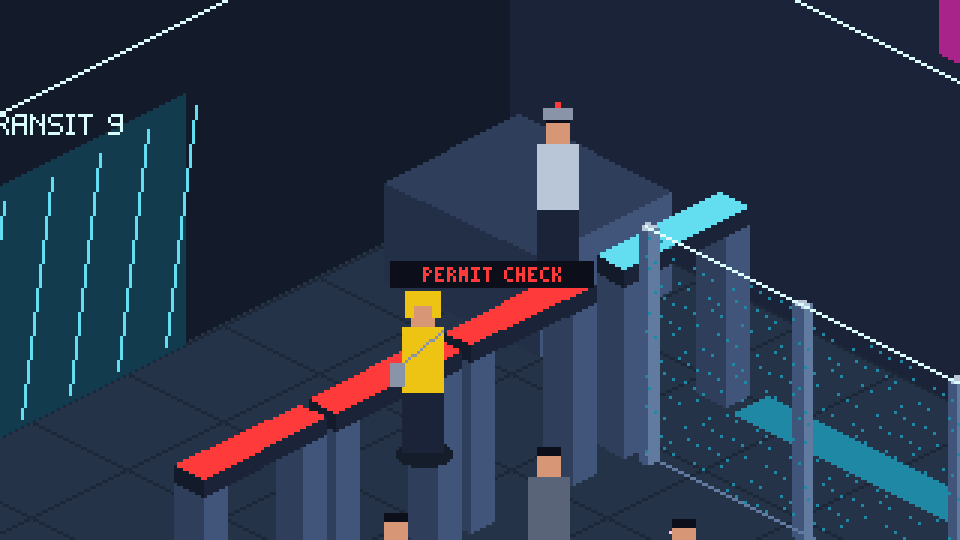
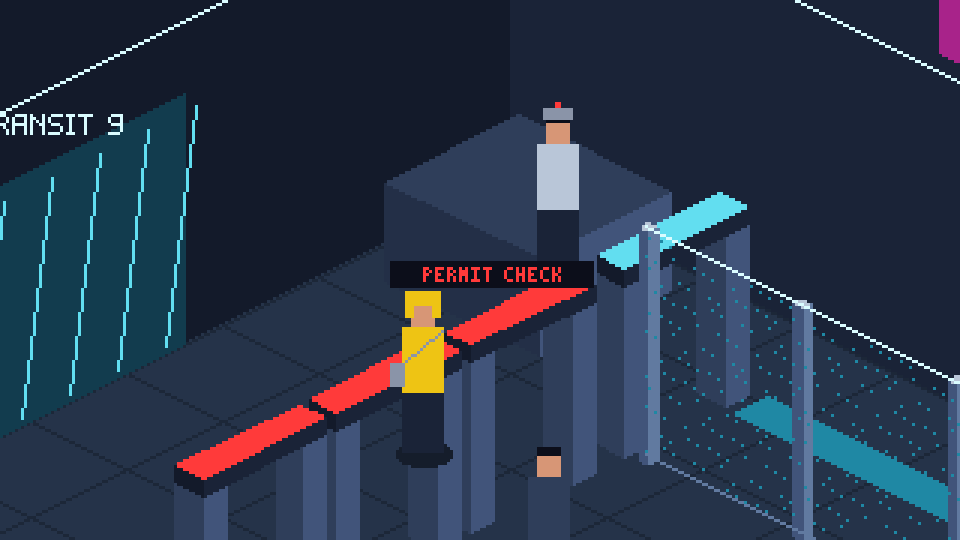
transit_neun's waiting hall is no longer full, as the user wished, and who waits there and how many changes with the day and the hour: in the draft (§9.2) as routines by the clock, looks only and no state (a proposal: the most after the day shift until 20:00, pump workers with their papers, a mother

Changed region(s): [[0.5312, 0.8593, 0.5938, 1.0], [0.6875, 0.9481, 0.75, 1.0], [0.375, 0.9481, 0.4375, 1.0]]

diff --git a/art/mockups/transit_neun_blocks.px.js b/art/mockups/transit_neun_blocks.px.js
@@ -354,14 +354,14 @@ scene("transit_neun_lang", { w: LW, h: LH, bg: "k" },
     }
     for (let u = 17.4; u <= 23.4; u += 1.2) lbox(c, u - 0.05, 5.0, 0, 0.1, 0.1, 1.0, "H", "5", "6")
     for (let u = 17.4; u < 23.4; u += 1.2) c.line(...L(u, 5.0, 0.95), ...L(u + 1.2, 5.0, 0.95), "r")
-    // the waiting hall: rows of benches, full; some asleep on Lull; people standing between
+    // the waiting hall: rows of benches, a few waiting (who and how many changes by the day and the hour); some asleep on Lull
     const COATS = ["4", "3", "5", "g", "4", "3"]
     let n = 0
     for (const v of [3.4, 4.9, 6.3]) for (let u = 5; u < 16; u += 2.6) {
       lbox(c, u, v, 0, 2.2, 0.5, 0.45, "5", "3", "4")
-      for (let s = 0; s < 3; s++) { n++; if (n % 5 === 3) continue; lman(c, u + 0.4 + s * 0.7, v + 0.25, COATS[n % 6], { sit: true, sleep: n % 4 === 1 }) }
+      for (let s = 0; s < 3; s++) { n++; if (!(n % 4 === 0 || n % 7 === 2)) continue; lman(c, u + 0.4 + s * 0.7, v + 0.25, COATS[n % 6], { sit: true, sleep: n % 4 === 1 }) }
     }
-    for (const [u, v] of [[16.6, 3.6], [17.2, 4.4], [18.4, 4.5], [19.6, 4.4], [16.0, 5.6], [4.6, 4.2], [4.5, 5.7]]) { n++; lman(c, u, v, COATS[n % 6], { case: n % 3 === 0 }) }
+    for (const [u, v] of [[17.2, 4.4], [18.4, 4.5], [4.6, 4.2]]) { n++; lman(c, u, v, COATS[n % 6], { case: n % 3 === 0 }) }
     // Juno at the first check: a red gate for her
     lman(c, 2.4, 3.3, "y", { hood: "y", bag: "G" })
     TXT.draw(c, 6, 6, "A: ISO, DIE LANGE HALLE (24 X 7 M, WAENDE 7 M)", "6", { font: "hud" })

diff --git a/docs/kapitel3-design.md b/docs/kapitel3-design.md
@@ -124,6 +124,11 @@ Am Fuß des Turms, wo die Aufzüge der Transitachse in den Schacht steigen, der 
 kommt nur, wer eine Arbeitserlaubnis hat, und höchstens bis in den Fünften (story §3). Nötig ist dieser Gang nicht, aber er erzählt die
 Grenze, und hier beginnt der Faden um Morrows Tochter (§6.1).
 
+**Der Weg durch die Halle** (Vorschlag nach der Wahl des Nutzers, §9.2): Juno kommt durch die Glastüren, und an der Vorkontrolle leuchtet
+ihr Tor rot (`PERMIT CHECK`). Damit ist sie im Wartesaal, nicht auf der Spur hinter dem Glas. Sie kann ihn durchqueren, mit den Wartenden
+reden (nur Farbe, kein Flag) und zu den Antragsschaltern an seinem Ende gehen; dort ist die Wache, und dort wird sie abgewiesen. Durch die
+Glaswand sieht sie die wenigen mit Erlaubnis zu den Bögen gehen, am Dienstag um 20:00 auch Morrow (§6.1).
+
 > Wache: „Ausweis, bitte.“ – Juno legt ihren alten auf. Das Lesegerät: `CIVIC MONITOR · J. REYES · UNGÜLTIG`. – Wache: „Dieser Ausweis
 > ist ungültig. Haben Sie eine Arbeitserlaubnis?“
 > - „Ich will meinen Bruder besuchen. Teo Reyes, Station 5-Mitte.“ – Wache: „Besuche auf den Stationen sind nicht vorgesehen.“ – „Die
@@ -330,7 +335,7 @@ holt sie sich nachts um halb eins in der Jade Row vom Tidewater-Jungen einen Ums
 
 | # | Wo | Was |
 |---|---|---|
-| M1 | `transit_neun`, Dienstag 20:00 | Morrow fährt hinauf, ihre Marke genügt. Die Wache: „Wie jeden Dienstag, Lieutenant. Grüßen Sie Raya.“ Morrow: „Sie schläft. Wie immer.“ Juno hört es oder sieht es im Puffer (Vorschlag: die Kamera über dem Kontrollpunkt, eine Nagi·wa-Kamera mit Junos altem Zugang). |
+| M1 | `transit_neun`, Dienstag 20:00 | Morrow geht auf der Spur hinter der Glaswand an den Wartenden vorbei und fährt hinauf, ihre Marke genügt. Die Wache am Bogen: „Wie jeden Dienstag, Lieutenant. Grüßen Sie Raya.“ Morrow: „Sie schläft. Wie immer.“ Juno hört es oder sieht es im Puffer (Vorschlag: die Kamera über dem Kontrollpunkt, eine Nagi·wa-Kamera mit Junos altem Zugang). |
 | M2 | Traum, die Station | In der zweiten Traumnacht unter den Schläfern der Station: An jedem Bett ein Schild, und Civic Rest nennt seine Schläfer freundlich beim Vornamen, mit einer Nummer (`RAYA · 5M-0219`). Mit dem Namen aus M1 findet Juno sie unter den vielen. |
 | M3 | dort | Raya spricht im Traum wie Teo, ruhig und weit weg. Im Traum sind die Schläfer da und können reden, mit Juno, die als Einzige wach darin ist; draußen kann keiner von ihnen etwas sagen (story §6, Punkt 4: Schläfer können nicht aussagen). Darum braucht Raya Juno als Botin: Ihrer Mutter selbst kann sie nichts sagen, auch nicht dienstags, wenn Morrow an ihrem Bett sitzt. Sie sieht durch die Kameras wie alle Schläfer, und sie hat ihre Mutter gesehen, jede Nacht um halb eins in der Jade Row (`cam07`, bis die Kamera ausging). Sie sagt es so, dass Juno es nicht vorher gesehen haben muss: „Mama hält jede Nacht in der Jade Row. Ein Junge gibt ihr einen Umschlag.“ – Juno: „Schmiergeld.“ – „Ich hab sie nie markiert. Ich kann nicht. Sie ist meine Mama.“ Hat Juno es in Kapitel 1 gesehen, kennt sie es schon; ein Flag dafür gibt es nicht (der Clip geht über Kapitel 2 nicht hinaus), die Zeilen sind für alle dieselben. Sie gibt Juno etwas mit, das nur die beiden wissen, den Namen, den ihre Mutter ihr als Kind gab, als sie Steine aus dem Abfluss sammelte: „Sag ihr: Kiesel sieht sie. Sie soll aufhören. Für mich muss sie das nicht.“ Flag `morrow_kind`, weiter in Kapitel 4: Mit „Kiesel“ glaubt Morrow Juno, und mit dem, was Raya gesehen hat, lässt sie sich umstimmen (story §7, Kapitel 4). |
 
@@ -427,7 +432,7 @@ und 2.
 |---|---|---|
 | `becken_raum` | Iso, etwa 6 x 4 m, ganz unten im Schacht | die Glaswand zum Filterbecken mit Tinte dahinter (ein großer Schatten, Arme, Saugnäpfe am Glas, der Sprechkragen), die Spinde (Teos mit seinem Namen und seinem Gehörschutz daran), ein Pultstück der Pumpen, das Kabel mit den Knoten im Wasser; von oben fällt das Licht des Schachts herein, durch die Decke sieht man ein Stück der Gerüste. Grün und Bernstein, nass. |
 | das Tor des Flutwerks | ein Hotspot mit Zahlenfeld am Ende eines Stegs, kein eigener Raum (Vorschlag) | `FLUTWERK – PUMP HALL 3 – NO ENTRY`, das Zahlenfeld. Wo der Steg abgeht (aus der Gasse am Wasser entlang?), entscheidet der Stadtplan. |
-| `transit_neun` | **Iso, eine große, hohe Halle** (vom Nutzer gewählt 2026-11-24, nach einem Foto einer Check-in-Halle; Blockskizze `docs/mockups/transit_neun_halle_x2.png`, der Blick des Bildschirms `transit_neun_halle_blick_x3.png`): etwa 12 x 8 m, die Wände 7 m hoch, doppelt so hoch wie ein Raum, größer als der Bildschirm in beide Richtungen, die Kamera fährt mit wie in der Beobachtungshalle des Vorspanns; eine lange Reihe von Kontrollschaltern mit einem Bildschirm über jedem und einer Wache dahinter, Gassen aus Pfosten und Bändern, durch die sich die Schlange der Pendler zieht, hinter den Schaltern die Scanner-Bögen vor den Glasröhren, an der linken Wand die Werbung für Lull und die Tafel `NEXT LIFT 20:00`. Der Ort knüpft an den Vorspann an: Es sind die Aufzüge, mit denen Juno 2088 heruntergefahren ist. **Länger, nach rechts scrollend** (der Nutzer am selben Tag: Juno soll vom Eingang erst durch eine Halle zu den Schaltern, und es muss sichtbar werden, dass nur wenige hinaufdürfen; Vorschlag `transit_neun_lang_x1.png`, 24 x 7 m): gleich hinter den Glastüren die Vorkontrolle `PERMIT CHECK`, vier Tore, die cyan leuchten für eine Erlaubnis und rot für keine; mit Erlaubnis eine schmale, fast leere Spur hinter einer Glaswand entlang der Turmwand direkt zu den Bögen und Röhren; ohne den Wartesaal, breit und voll, Bänke, manche schlafen auf Lull (`LULL WHILE YOU WAIT`), die Tafel `TODAY APPROVED 4 / DENIED 2.318 / NOW SERVING 0412`, an seinem Ende die Antragsschalter mit der Wache aus §3.3 | im Neunten, der Fuß der Transitachse: gläserne Aufzugsröhren, die in den Schacht um den Turm steigen, die Schranke, die Wache hinter Glas, ein Bogen mit Lesegerät, `RING 5 – WORK PERMIT ONLY`, rotes Licht (Behörde, Style Guide §5), eine Schlange Pendler mit Erlaubnis; nach oben der Blick durch den Schacht bis zum kalten Licht der Krone |
+| `transit_neun` | **Iso, eine große, hohe Halle** (vom Nutzer gewählt 2026-11-24, nach einem Foto einer Check-in-Halle; Blockskizze `docs/mockups/transit_neun_halle_x2.png`, der Blick des Bildschirms `transit_neun_halle_blick_x3.png`): etwa 12 x 8 m, die Wände 7 m hoch, doppelt so hoch wie ein Raum, größer als der Bildschirm in beide Richtungen, die Kamera fährt mit wie in der Beobachtungshalle des Vorspanns; eine lange Reihe von Kontrollschaltern mit einem Bildschirm über jedem und einer Wache dahinter, Gassen aus Pfosten und Bändern, durch die sich die Schlange der Pendler zieht, hinter den Schaltern die Scanner-Bögen vor den Glasröhren, an der linken Wand die Werbung für Lull und die Tafel `NEXT LIFT 20:00`. Der Ort knüpft an den Vorspann an: Es sind die Aufzüge, mit denen Juno 2088 heruntergefahren ist. **Länger, nach rechts scrollend** (der Nutzer am selben Tag: Juno soll vom Eingang erst durch eine Halle zu den Schaltern, und es muss sichtbar werden, dass nur wenige hinaufdürfen; Vorschlag `transit_neun_lang_x1.png`, 24 x 7 m): gleich hinter den Glastüren die Vorkontrolle `PERMIT CHECK`, vier Tore, die cyan leuchten für eine Erlaubnis und rot für keine; mit Erlaubnis eine schmale, fast leere Spur hinter einer Glaswand entlang der Turmwand direkt zu den Bögen und Röhren; ohne den Wartesaal, breit und voll, Bänke, manche schlafen auf Lull (`LULL WHILE YOU WAIT`), die Tafel `TODAY APPROVED 4 / DENIED 2.318 / NOW SERVING 0412`, an seinem Ende die Antragsschalter mit der Wache aus §3.3. **Der Wartesaal ist nicht voll, und wer dort wartet, ändert sich mit Tag und Stunde** (der Nutzer, 2026-11-24): Routinen nach der Uhr, nur zum Ansehen, kein Zustand (Vorschlag: 18:00 bis 20:00 nach der Tagschicht die meisten, etwa ein Dutzend, Arbeiter aus den Pumpen mit ihren Papieren, eine Mutter mit Kind, ein alter Mann mit Koffer; ab 20:00 werden Nummern aufgerufen, Leute stehen auf, gehen zu den Schaltern und kommen kopfschüttelnd zurück, der Saal leert sich; ab 23:00 nur noch die, die über Nacht bleiben und auf den Bänken auf Lull schlafen, und ein Putzroboter; am Mittwoch, nach der Meldung von der neuen Station, Angehörige von Schläfern, die einen Besuch beantragen wollen, eine Frau mit einem Foto; die Zahlen der Tafel und `NOW SERVING` nach Tag und Uhr) | im Neunten, der Fuß der Transitachse: gläserne Aufzugsröhren, die in den Schacht um den Turm steigen, die Schranke, die Wache hinter Glas, ein Bogen mit Lesegerät, `RING 5 – WORK PERMIT ONLY`, rotes Licht (Behörde, Style Guide §5), eine Schlange Pendler mit Erlaubnis; nach oben der Blick durch den Schacht bis zum kalten Licht der Krone |
 | der Traum | ein eigener Modus, Mockup zuerst (§3.5) | die Wand der Bilder, die Ecken, das Auge |
 | die Station im Fünften | nur im Traum, durch ihre Kameras | Reihen von Schläfern in weißem Salzlicht (story §10k). Weil Juno in Kapitel 4 selbst dort hingeht, ist sie ein Ort für beide Kapitel: Sie wird als der Raum gebaut, den Kapitel 4 betritt, und im Traum unter dem Filter des Traums gezeigt (ein Ort, ein Bild). |
 | die Wartungskameras | Feeds in den Rohren (§6.2) | Rohre, Klappen, Lüfter, eine Drohne; alt, nachgerüstet, wie `cam31` |
